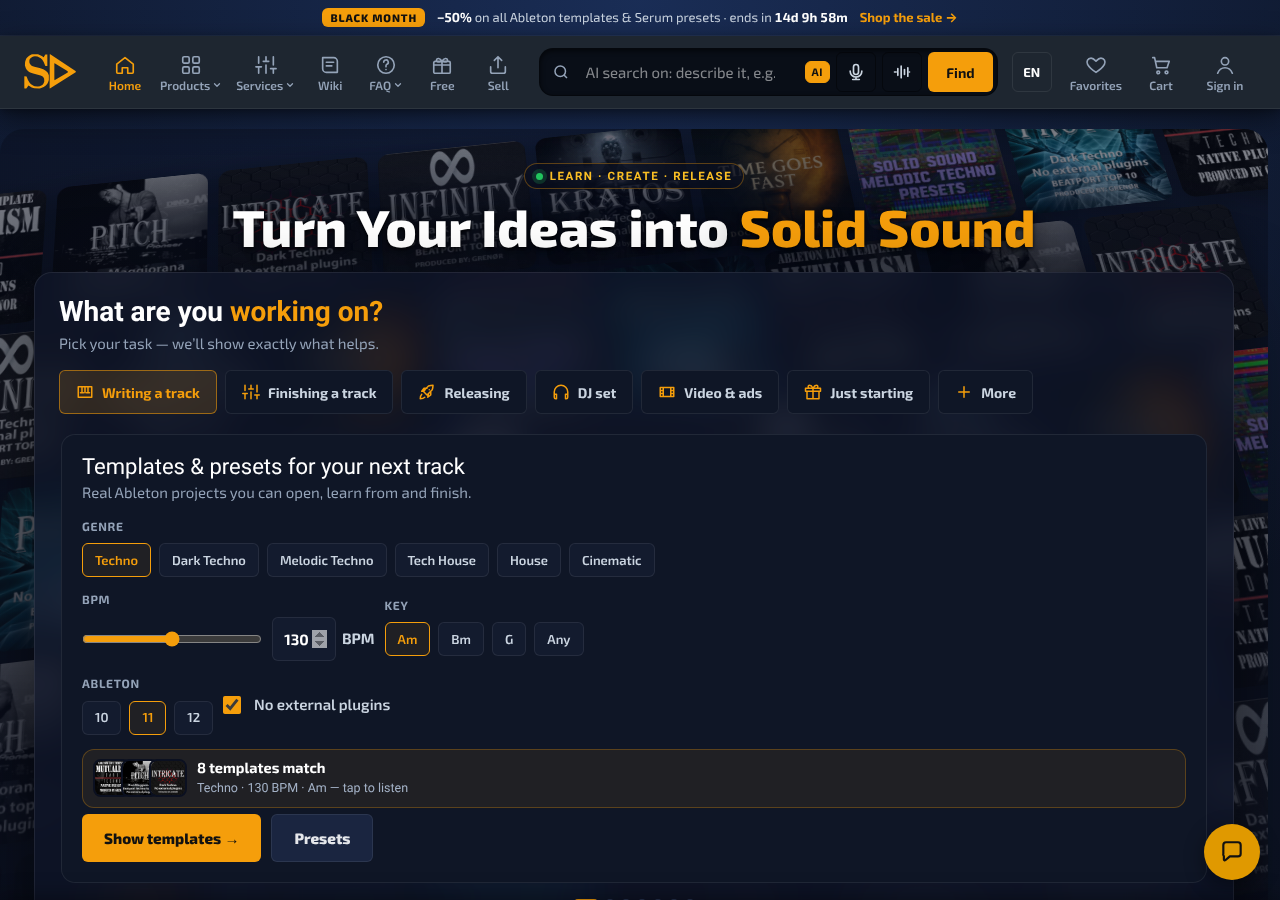
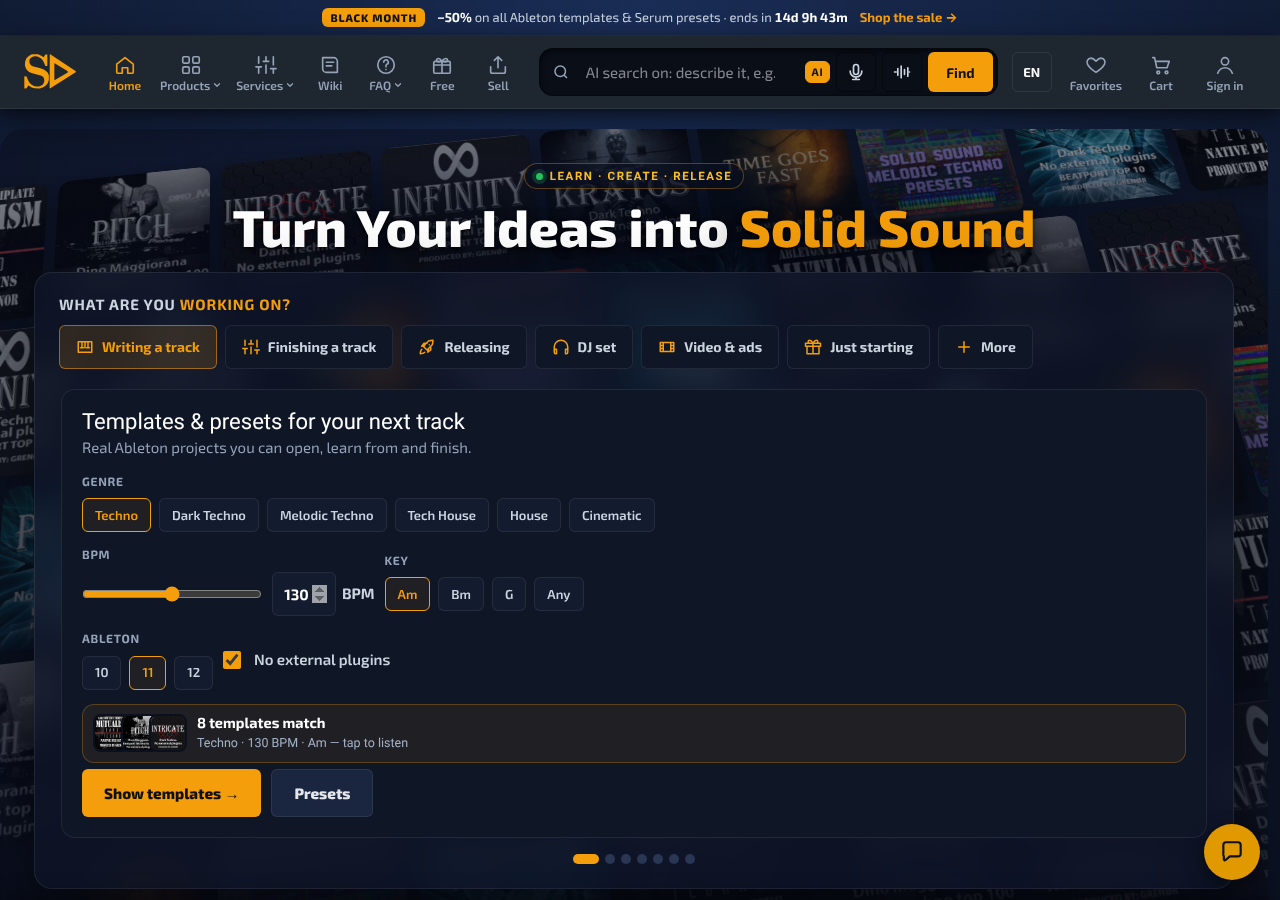
Home: one headline (slogan); assistant title becomes a small label
Claude-Session: https://claude.ai/code/session_01JfK5zSDYR2btK9FRr3xgU6

diff --git a/plugin/solid-sound-custom/build/modules/home-wow.php b/plugin/solid-sound-custom/build/modules/home-wow.php
@@ -69,6 +69,9 @@ add_action( 'wp_footer', function () {
 .ssw-wall:after{content:"";position:absolute;inset:0;background:radial-gradient(60% 120px at 50% 120px,rgba(11,16,32,.75),transparent 100%),linear-gradient(180deg,rgba(11,16,32,.5),rgba(11,16,32,.62) 40%,rgba(11,16,32,.9))}
 .ssw-wall.paused .ssw-row{animation-play-state:paused}
 @keyframes sswmq{to{transform:translateX(-50%)}}
+/* owner 16.11: «2 заголовка конфликтуют» — the slogan is the headline; the assistant title becomes a small card label */
+body.ss-wow .ssx h1.ssx-t,body.ss-wow #top .ssx h1.ssx-t,#top body.ss-wow .ssx h1.ssx-t,body.ss-wow#top .ssx h1.ssx-t{font:700 15px/1.3 "Exo 2",sans-serif!important;letter-spacing:.06em;text-transform:uppercase;color:#cbd5e1!important;margin:0 0 10px!important}
+body.ss-wow .ssx .sub{display:none}
 body.ss-wow .ssx{position:relative;z-index:2;background:rgba(15,22,40,.66)!important;-webkit-backdrop-filter:blur(16px) saturate(1.25);backdrop-filter:blur(16px) saturate(1.25);box-shadow:0 30px 80px rgba(0,0,0,.55)}
 .ssw-match{display:flex;align-items:center;gap:10px;margin:12px 0 0;padding:9px 10px;border-radius:12px;background:rgba(245,158,11,.08);border:1px solid rgba(245,158,11,.28);cursor:pointer;text-align:left}
 .ssw-match .cv{display:flex;flex:none}.ssw-match .cv img{width:38px;height:38px;border-radius:8px;object-fit:cover;border:2px solid #0b1020;margin-left:-10px}.ssw-match .cv img:first-child{margin-left:0}

diff --git a/plugin/solid-sound-custom/src/modules/home-wow.php b/plugin/solid-sound-custom/src/modules/home-wow.php
@@ -69,6 +69,9 @@ add_action( 'wp_footer', function () {
 .ssw-wall:after{content:"";position:absolute;inset:0;background:radial-gradient(60% 120px at 50% 120px,rgba(11,16,32,.75),transparent 100%),linear-gradient(180deg,rgba(11,16,32,.5),rgba(11,16,32,.62) 40%,rgba(11,16,32,.9))}
 .ssw-wall.paused .ssw-row{animation-play-state:paused}
 @keyframes sswmq{to{transform:translateX(-50%)}}
+/* owner 16.11: «2 заголовка конфликтуют» — the slogan is the headline; the assistant title becomes a small card label */
+body.ss-wow .ssx h1.ssx-t,body.ss-wow #top .ssx h1.ssx-t,#top body.ss-wow .ssx h1.ssx-t,body.ss-wow#top .ssx h1.ssx-t{font:700 15px/1.3 "Exo 2",sans-serif!important;letter-spacing:.06em;text-transform:uppercase;color:#cbd5e1!important;margin:0 0 10px!important}
+body.ss-wow .ssx .sub{display:none}
 body.ss-wow .ssx{position:relative;z-index:2;background:rgba(15,22,40,.66)!important;-webkit-backdrop-filter:blur(16px) saturate(1.25);backdrop-filter:blur(16px) saturate(1.25);box-shadow:0 30px 80px rgba(0,0,0,.55)}
 .ssw-match{display:flex;align-items:center;gap:10px;margin:12px 0 0;padding:9px 10px;border-radius:12px;background:rgba(245,158,11,.08);border:1px solid rgba(245,158,11,.28);cursor:pointer;text-align:left}
 .ssw-match .cv{display:flex;flex:none}.ssw-match .cv img{width:38px;height:38px;border-radius:8px;object-fit:cover;border:2px solid #0b1020;margin-left:-10px}.ssw-match .cv img:first-child{margin-left:0}
